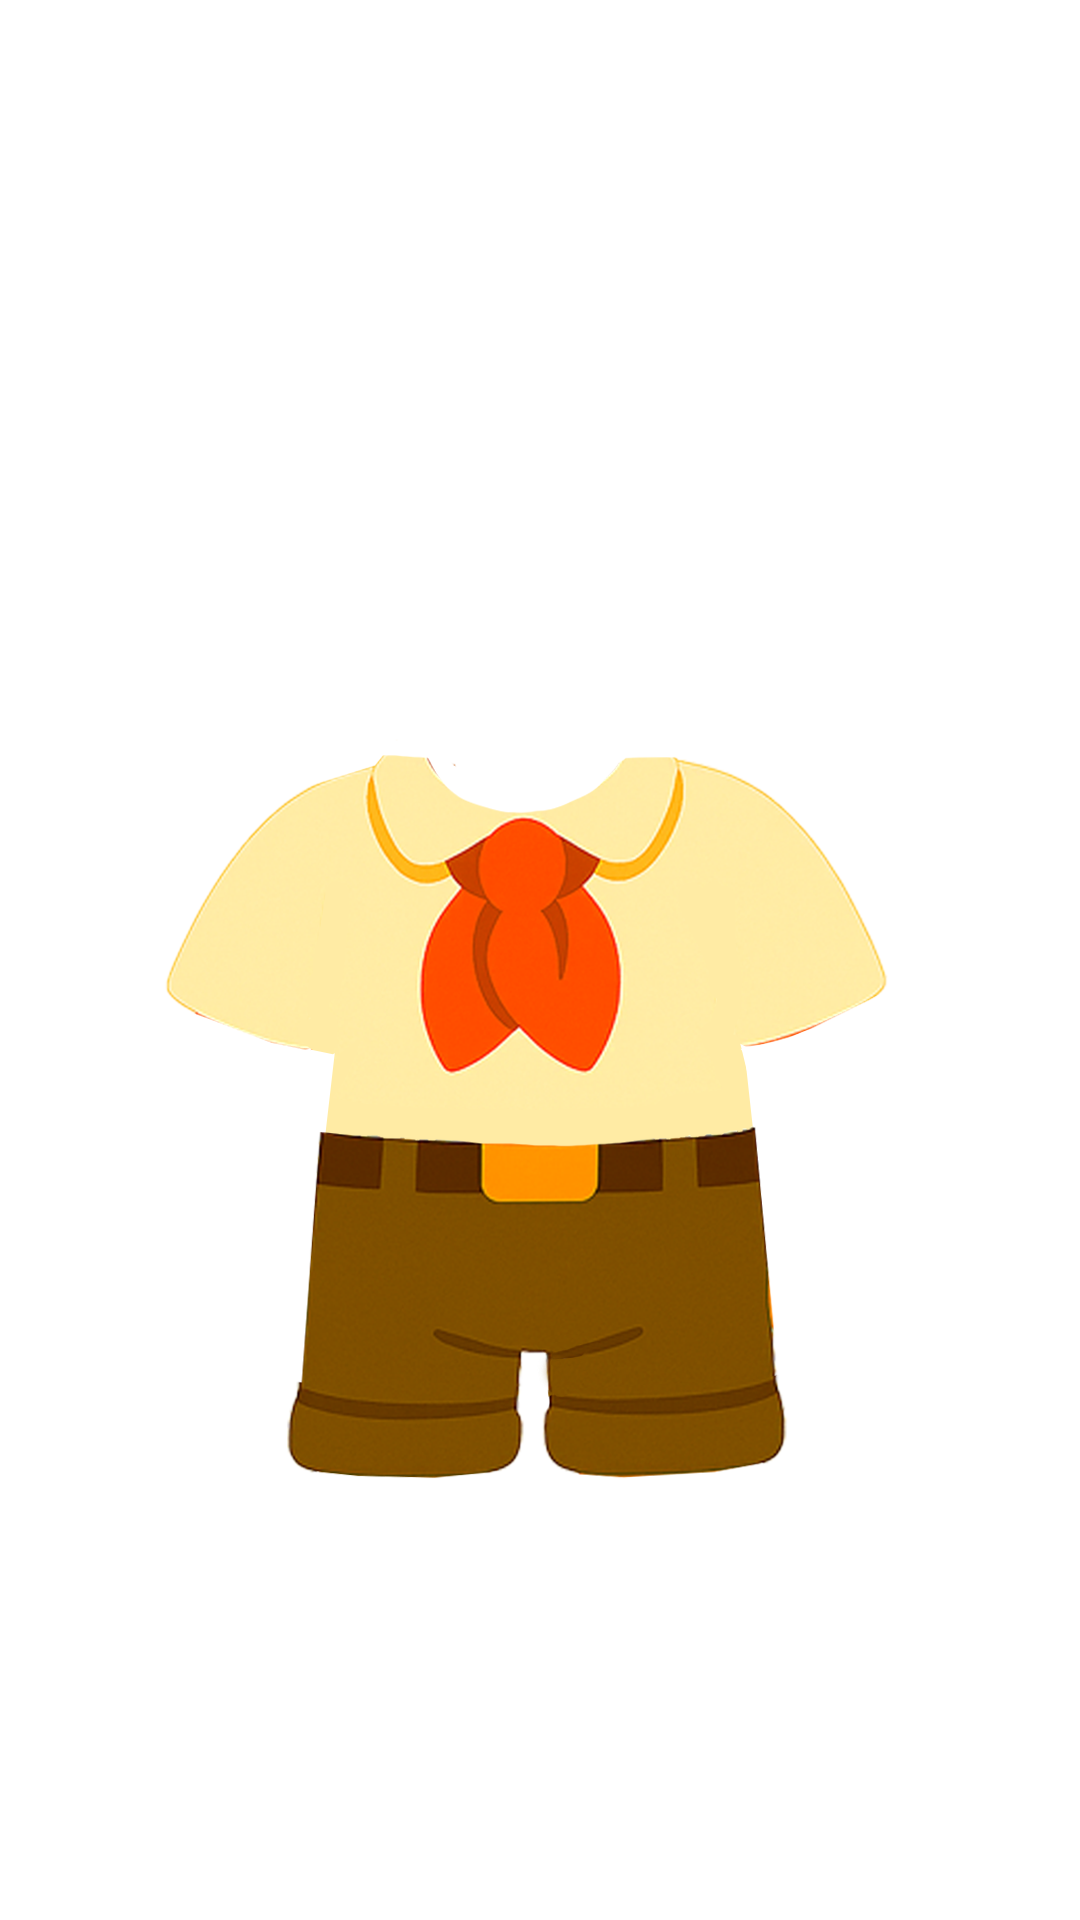
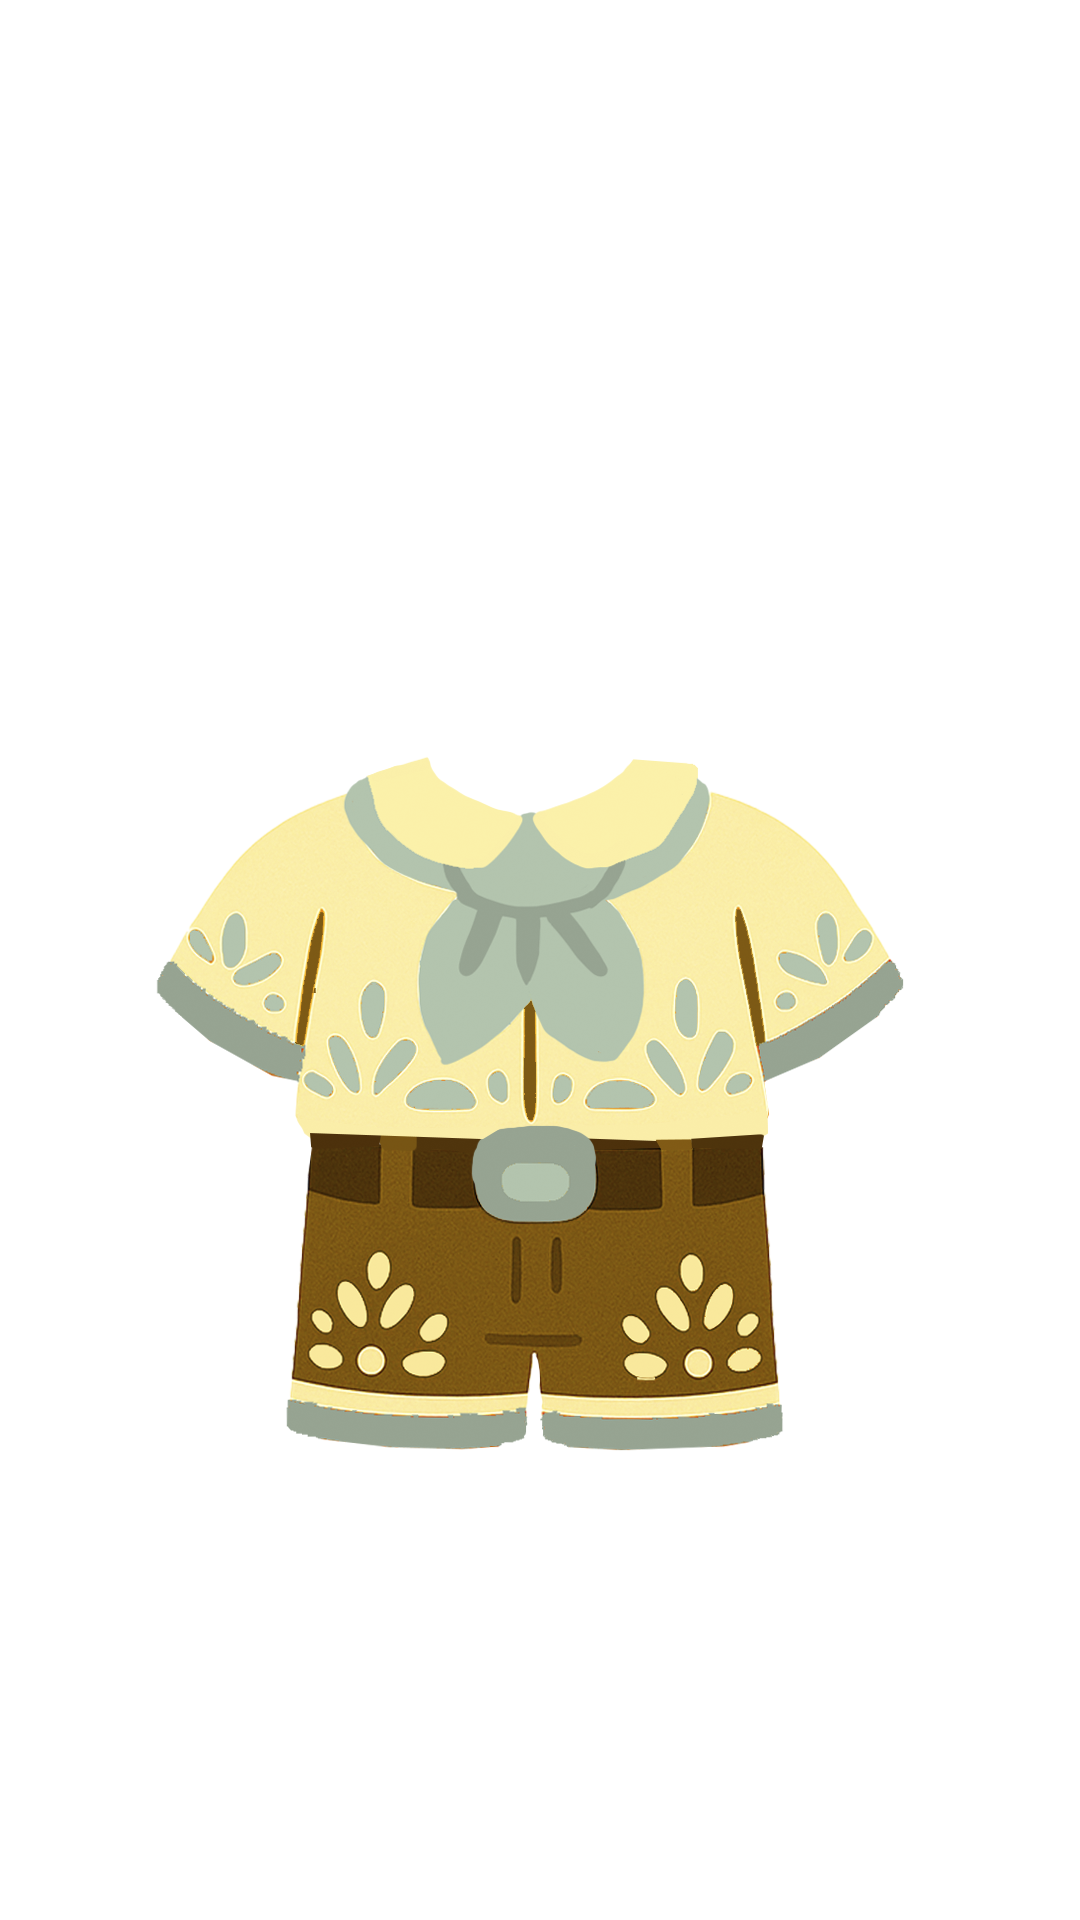
Nuevas images

Changed region(s): [[0.1528, 0.375, 0.8556, 0.7812]]

diff --git a/frontend/src/pages/AvatarSelection.jsx b/frontend/src/pages/AvatarSelection.jsx
@@ -3,44 +3,19 @@ import { useTranslation } from "react-i18next";
 import { useNavigate } from "react-router-dom";
 
 // Opciones
-const bodyOptions = Array.from(
-  { length: 10 },
-  (_, i) => `/avatares/CUERPO_${i + 1}.png`
-);
-const hairOptions = Array.from(
-  { length: 21 },
-  (_, i) => `/avatares/PELO_${i + 1}.png`
-);
-const clothingOptions = Array.from(
-  { length: 13 },
-  (_, i) => `/avatares/VESTUARIO_${i + 1}.png`
-);
-const eyesOptions = Array.from(
-  { length: 4 },
-  (_, i) => `/avatares/OJOS_${i + 1}.png`
-);
+const bodyOptions = Array.from({ length: 10 }, (_, i) => `/avatares/CUERPO_${i + 1}.png`);
+const eyesOptions = Array.from({ length: 5 }, (_, i) => `/avatares/OJOS_${i + 1}.png`);
+const hairOptions = [null, ...Array.from({ length: 21 }, (_, i) => `/avatares/PELO_${i + 1}.png`)];
+const clothingOptions = Array.from({ length: 16 }, (_, i) => `/avatares/VESTUARIO_${i + 1}.png`);
+const glassesAccessoryOptions = [null, ...Array.from({ length: 10 }, (_, i) => `/avatares/LENTES_${i + 1}.png`)];
+const headAccessoryOptions = [null, ...Array.from({ length: 4 }, (_, i) => `/avatares/ACCESORIOS_CABEZA_${i + 1}.png`)];
+const bodyAccessoryOptions = [null, ...Array.from({ length: 2 }, (_, i) => `/avatares/ACCESORIOS_CUERPOS_${i + 1}.png`)];
+const shoeOptions = [null, ...Array.from({ length: 16 }, (_, i) => `/avatares/ZAPATOS_${i + 1}.png`)];
 
-const shoeOptions = Array.from({ length: 12 }, (_, i) => ({
-  src: `/avatares/ZAPATOS_${i + 1}.png`,
-  thumb: `/avatares/ZAPATOS_ICONO_${i + 1}.png`,
-}));
-
-const hairAccessoryOptions = [
-  null,
-  "/avatares/ACCESORIOS_CABELLO_1.png",
-  "/avatares/ACCESORIOS_CABELLO_2.png",
-];
-
-const bodyAccessoryOptions = [
-  null,
-  "/avatares/ACCESORIOS_CUERPOS_1.png",
-  "/avatares/ACCESORIOS_CUERPOS_2.png",
-];
-
-function useSelection(options, isObject = false) {
-  const [index, setIndex] = useState(0);
+function useSelection(options, isObject = false, initialIndex = 0) {
+  const [index, setIndex] = useState(initialIndex);
   const set = (i) => setIndex(i);
-  const value = isObject ? options[index]?.src : options[index];
+  const value = isObject ? options[index] : options[index];
   return [index, value, set, options];
 }
 
@@ -49,18 +24,13 @@ export default function AvatarSelection() {
   const navigate = useNavigate();
 
   const [bodyIndex, bodyImg, setBody, bodyList] = useSelection(bodyOptions);
-  const [hairIndex, hairImg, setHair, hairList] = useSelection(hairOptions);
-  const [clothingIndex, clothingImg, setClothing, clothingList] =
-    useSelection(clothingOptions);
-  const [eyesIndex, eyesImg, setEyes, eyesList] = useSelection(eyesOptions);
-  const [shoeIndex, shoeImg, setShoe, shoeList] = useSelection(
-    shoeOptions,
-    true
-  );
-  const [hairAccessoryIndex, hairAccImg, setHairAcc, hairAccList] =
-    useSelection(hairAccessoryOptions);
-  const [bodyAccessoryIndex, bodyAccImg, setBodyAcc, bodyAccList] =
-    useSelection(bodyAccessoryOptions);
+  const [hairIndex, hairImg, setHair, hairList] = useSelection(hairOptions, false, Math.floor(Math.random() * hairOptions.length));
+  const [clothingIndex, clothingImg, setClothing, clothingList] = useSelection(clothingOptions, false, Math.floor(Math.random() * clothingOptions.length));
+  const [eyesIndex, eyesImg, setEyes, eyesList] = useSelection(eyesOptions, false, Math.floor(Math.random() * eyesOptions.length));
+  const [shoeIndex, shoeImg, setShoe, shoeList] = useSelection(shoeOptions, false, Math.floor(Math.random() * shoeOptions.length));
+  const [glassesIndex, glassesImg, setGlasses, glassesList] = useSelection(glassesAccessoryOptions);
+  const [headAccessoryIndex, headAccImg, setHeadAcc, headAccList] = useSelection(headAccessoryOptions);
+  const [bodyAccessoryIndex, bodyAccImg, setBodyAcc, bodyAccList] = useSelection(bodyAccessoryOptions);
 
   const [activeTab, setActiveTab] = useState("body");
 
@@ -73,7 +43,8 @@ export default function AvatarSelection() {
         clothingIndex,
         shoeIndex,
         eyesIndex,
-        hairAccessoryIndex,
+        glassesIndex,
+        headAccessoryIndex,
         bodyAccessoryIndex,
       })
     );
@@ -81,13 +52,10 @@ export default function AvatarSelection() {
   };
 
   const handleRandomize = () => {
-    setBody(Math.floor(Math.random() * bodyList.length));
+    setEyes(Math.floor(Math.random() * eyesList.length));
     setHair(Math.floor(Math.random() * hairList.length));
     setClothing(Math.floor(Math.random() * clothingList.length));
     setShoe(Math.floor(Math.random() * shoeList.length));
-    setEyes(Math.floor(Math.random() * eyesList.length));
-    setHairAcc(Math.floor(Math.random() * hairAccList.length));
-    setBodyAcc(Math.floor(Math.random() * bodyAccList.length));
   };
 
   const handleReset = () => {
@@ -96,62 +64,30 @@ export default function AvatarSelection() {
     setClothing(0);
     setShoe(0);
     setEyes(0);
-    setHairAcc(0);
+    setGlasses(0);
+    setHeadAcc(0);
     setBodyAcc(0);
   };
 
   const tabs = [
-    {
-      key: "body",
-      label: t("body"),
-      set: setBody,
-      list: bodyList,
-      current: bodyIndex,
-    },
-    {
-      key: "eyes",
-      label: t("eyes"),
-      set: setEyes,
-      list: eyesList,
-      current: eyesIndex,
-    },
-    {
-      key: "hair",
-      label: t("hair"),
-      set: setHair,
-      list: hairList,
-      current: hairIndex,
-    },
-    {
-      key: "clothing",
-      label: t("clothing"),
-      set: setClothing,
-      list: clothingList,
-      current: clothingIndex,
-    },
-    {
-      key: "shoes",
-      label: t("shoes"),
-      set: setShoe,
-      list: shoeList,
-      current: shoeIndex,
-      isObject: true,
-    },
-    {
-      key: "bodyAccessory",
-      label: t("bodyAccessory"),
-      set: setBodyAcc,
-      list: bodyAccList,
-      current: bodyAccessoryIndex,
-    },
-    {
-      key: "hairAccessory",
-      label: t("hairAccessory"),
-      set: setHairAcc,
-      list: hairAccList,
-      current: hairAccessoryIndex,
-    },
+    { key: "body", label: t("body"), set: setBody, list: bodyList, current: bodyIndex },
+    { key: "eyes", label: t("eyes"), set: setEyes, list: eyesList, current: eyesIndex },
+    { key: "hair", label: t("hair"), set: setHair, list: hairList, current: hairIndex },
+    { key: "clothing", label: t("clothing"), set: setClothing, list: clothingList, current: clothingIndex },
+    { key: "shoes", label: t("shoes"), set: setShoe, list: shoeList, current: shoeIndex },
+    { key: "glasses", label: t("glasses"), set: setGlasses, list: glassesList, current: glassesIndex },
+    { key: "headAccessory", label: t("headAccessory"), set: setHeadAcc, list: headAccList, current: headAccessoryIndex },
+    { key: "bodyAccessory", label: t("bodyAccessory"), set: setBodyAcc, list: bodyAccList, current: bodyAccessoryIndex },
   ];
+
+  const zoomedKeys = {
+    eyes: { scale: "scale-[4]", translateY: "-translate-y-[-85%]" },
+    hair: { scale: "scale-[1.5]", translateY: "-translate-y-[-35%]" },
+    glasses: { scale: "scale-[2.5]", translateY: "-translate-y-[-60%]" },
+    headAccessory: { scale: "scale-[2.3]", translateY: "-translate-y-[-80%]" },
+    shoes: { scale: "scale-[2.5]", translateY: "translate-y-[-85%]" },
+    clothing: { scale: "scale-[1.8]", translateY: "translate-y-[-10%]" }
+  };
 
   return (
     <div className="relative min-h-screen w-screen overflow-hidden font-lufga">
@@ -165,9 +101,7 @@ export default function AvatarSelection() {
         {/* Idioma */}
         <div className="w-full flex justify-end mb-2">
           <button
-            onClick={() =>
-              i18n.changeLanguage(i18n.language === "es" ? "en" : "es")
-            }
+            onClick={() => i18n.changeLanguage(i18n.language === "es" ? "en" : "es")}
             className="bg-white/80 backdrop-blur-sm text-black px-4 py-2 rounded-full shadow border border-gray-300 hover:bg-white"
           >
             {t("language")}
@@ -183,45 +117,14 @@ export default function AvatarSelection() {
 
         {/* Avatar */}
         <div className="relative w-[50vw] max-w-[180px] h-[80vw] max-h-[320px] flex items-center justify-center mb-4">
-          {bodyAccImg && (
-            <img
-              src={bodyAccImg}
-              alt="Acc. cuerpo"
-              className="absolute w-full h-full object-contain"
-            />
-          )}
-          <img
-            src={bodyImg}
-            alt="Cuerpo"
-            className="absolute w-full h-full object-contain"
-          />
-          <img
-            src={eyesImg}
-            alt="Ojos"
-            className="absolute w-full h-full object-contain"
-          />
-          <img
-            src={hairImg}
-            alt="Cabello"
-            className="absolute w-full h-full object-contain"
-          />
-          <img
-            src={clothingImg}
-            alt="Ropa"
-            className="absolute w-full h-full object-contain"
-          />
-          <img
-            src={shoeImg}
-            alt="Zapatos"
-            className="absolute w-full h-full object-contain"
-          />
-          {hairAccImg && (
-            <img
-              src={hairAccImg}
-              alt="Acc. cabello"
-              className="absolute w-full h-full object-contain"
-            />
-          )}
+          {bodyAccImg && <img src={bodyAccImg} alt="Acc. cuerpo" className="absolute w-full h-full object-contain" />}
+          {bodyImg && <img src={bodyImg} alt="Cuerpo" className="absolute w-full h-full object-contain" />}
+          {eyesImg && <img src={eyesImg} alt="Ojos" className="absolute w-full h-full object-contain" />}
+          {hairImg && <img src={hairImg} alt="Cabello" className="absolute w-full h-full object-contain" />}
+          {clothingImg && <img src={clothingImg} alt="Ropa" className="absolute w-full h-full object-contain" />}
+          {shoeImg && <img src={shoeImg} alt="Zapatos" className="absolute w-full h-full object-contain" />}
+          {headAccImg && <img src={headAccImg} alt="Acc. cabeza" className="absolute w-full h-full object-contain" />}
+          {glassesImg && <img src={glassesImg} alt="Lentes" className="absolute w-full h-full object-contain" />}
         </div>
 
         {/* Tabs */}
@@ -251,29 +154,24 @@ export default function AvatarSelection() {
                 <div className="flex overflow-x-auto gap-2 w-full px-2">
                   {tab.list.map((opt, i) => {
                     const isCurrent = i === tab.current;
-                    const isShoes = tab.key === "shoes";
                     const isNull = opt === null;
-                    const thumbSrc = isShoes ? opt.thumb : opt;
+                    const zoom = zoomedKeys[tab.key] || {};
 
                     return (
                       <div key={i} className="flex-shrink-0">
                         <div
                           onClick={() => tab.set(i)}
                           className={`w-16 h-16 flex items-center justify-center border-2 rounded cursor-pointer ${
-                            isCurrent
-                              ? "border-green-600"
-                              : "border-transparent"
-                          } bg-white`}
+                            isCurrent ? "border-green-600" : "border-transparent"
+                          } bg-white overflow-hidden`}
                         >
                           {isNull ? (
-                            <span className="text-xs text-gray-500 text-center px-1">
-                              Sin accesorio
-                            </span>
+                            <span className="text-xs text-gray-500 text-center px-1">Sin accesorio</span>
                           ) : (
                             <img
-                              src={thumbSrc}
+                              src={opt}
                               alt={`${tab.key}_${i}`}
-                              className="w-full h-full object-contain"
+                              className={`w-full h-full object-contain transform ${zoom.scale || ""} ${zoom.translateY || ""}`}
                             />
                           )}
                         </div>
@@ -286,22 +184,20 @@ export default function AvatarSelection() {
         </div>
 
         {/* Acciones */}
-       {/* Acciones */}
-<div className="flex gap-3 justify-center mb-4 w-full max-w-sm flex-nowrap">
-  <button
-    onClick={handleRandomize}
-    className="bg-white text-black px-4 py-2 rounded-full shadow border border-gray-300 hover:bg-gray-100 whitespace-nowrap"
-  >
-    {t("randomize") || "Aleatorio"}
-  </button>
-  <button
-    onClick={handleReset}
-    className="bg-white text-black px-4 py-2 rounded-full shadow border border-gray-300 hover:bg-gray-100 whitespace-nowrap"
-  >
-    {t("reset") || "Reiniciar"}
-  </button>
-</div>
-
+        <div className="flex gap-3 justify-center mb-4 w-full max-w-sm flex-nowrap">
+          <button
+            onClick={handleRandomize}
+            className="bg-white text-black px-4 py-2 rounded-full shadow border border-gray-300 hover:bg-gray-100 whitespace-nowrap"
+          >
+            {t("randomize") || "Aleatorio"}
+          </button>
+          <button
+            onClick={handleReset}
+            className="bg-white text-black px-4 py-2 rounded-full shadow border border-gray-300 hover:bg-gray-100 whitespace-nowrap"
+          >
+            {t("reset") || "Reiniciar"}
+          </button>
+        </div>
 
         {/* Guardar */}
         <button
